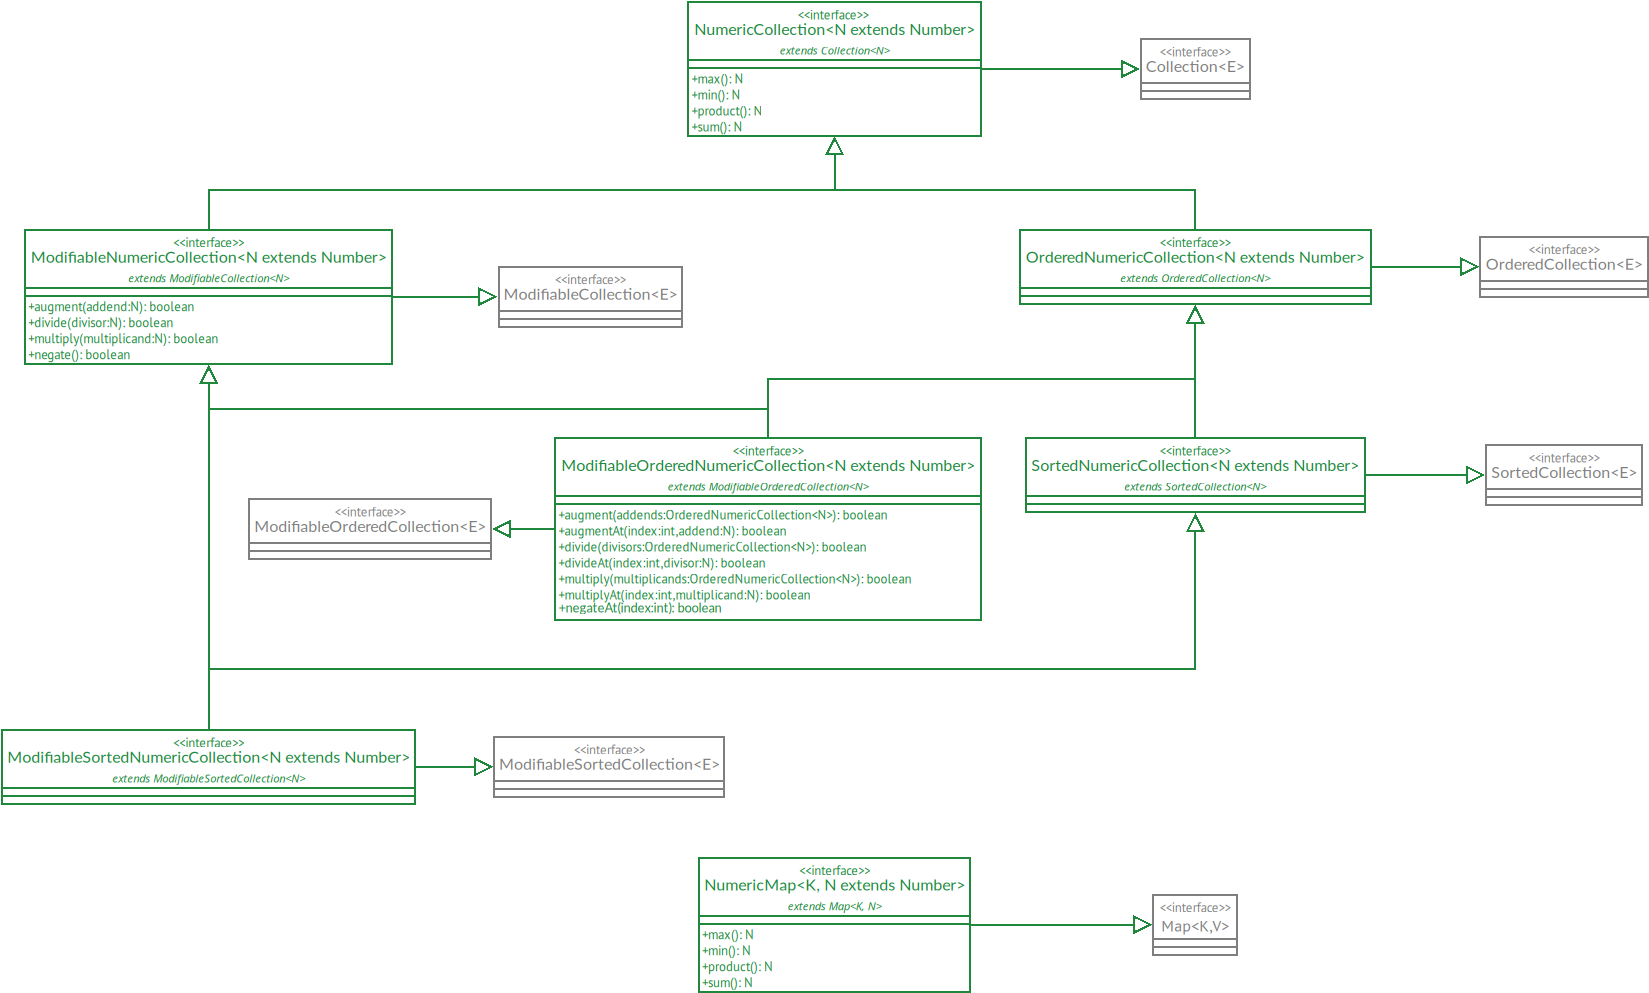
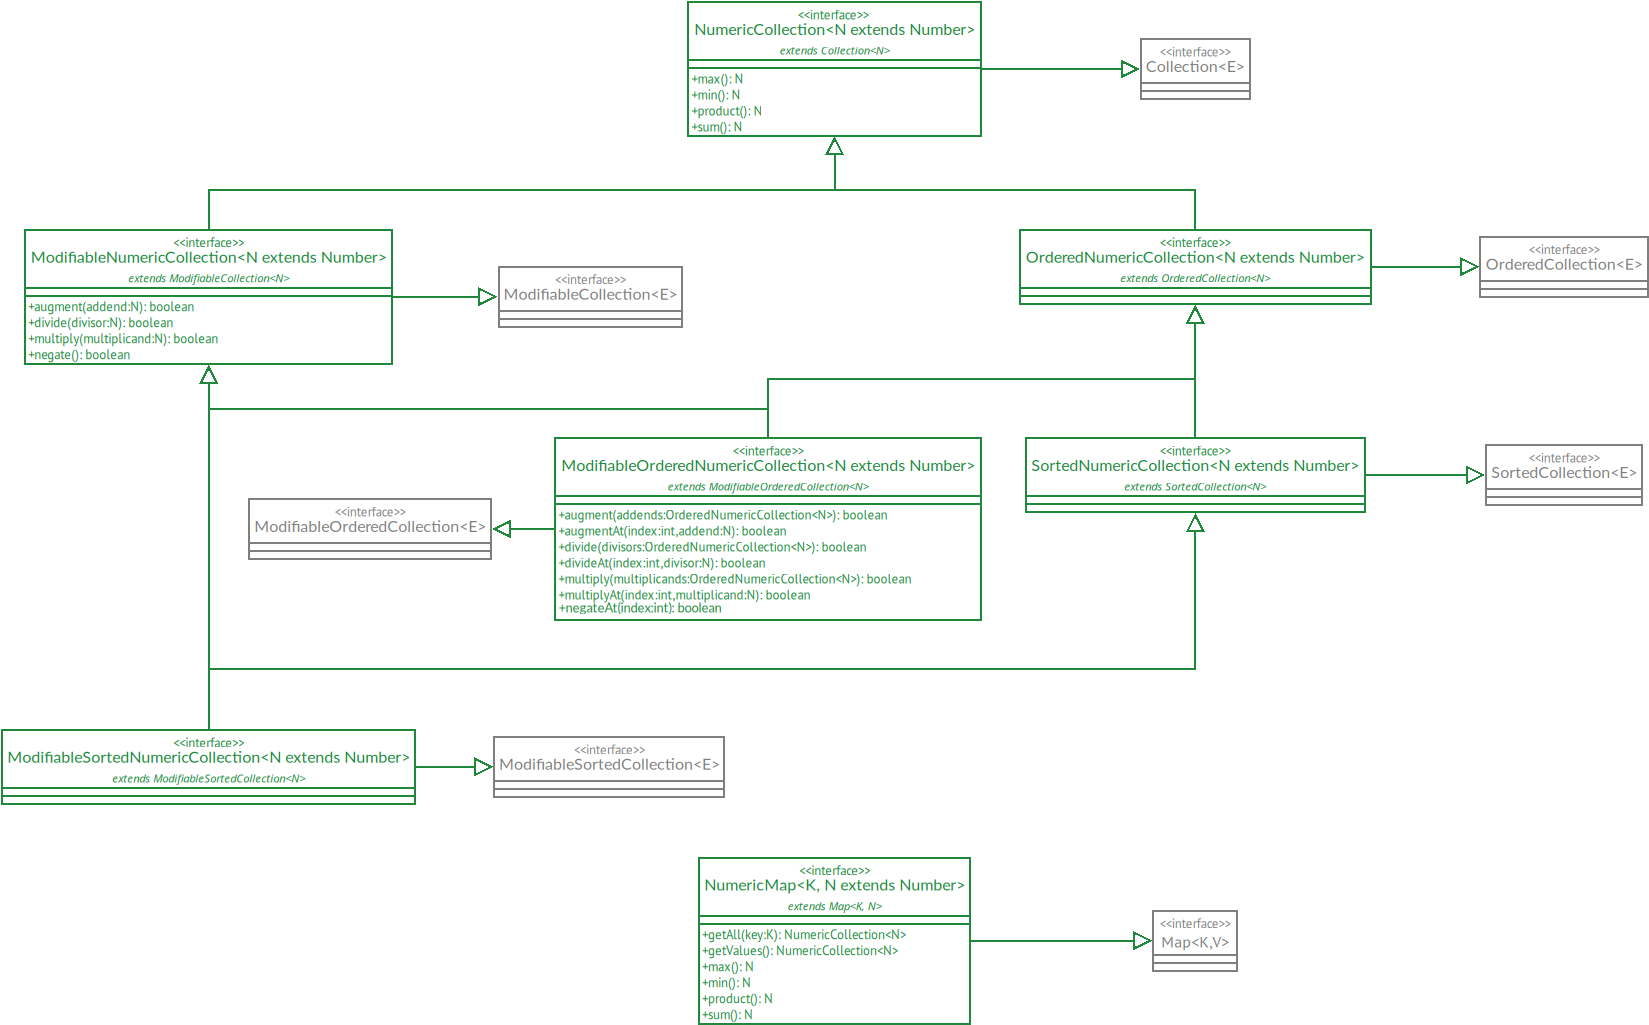
Issue #20: Started the implementation of IntegerMap

diff --git a/src/main/java/net/filipvanlaenen/nombrajkolektoj/integers/IntegerMap.java b/src/main/java/net/filipvanlaenen/nombrajkolektoj/integers/IntegerMap.java
@@ -1,0 +1,130 @@
+package net.filipvanlaenen.nombrajkolektoj.integers;
+
+import java.util.Iterator;
+import java.util.Spliterator;
+
+import net.filipvanlaenen.kolektoj.Collection;
+import net.filipvanlaenen.kolektoj.Map;
+import net.filipvanlaenen.nombrajkolektoj.NumericCollection;
+import net.filipvanlaenen.nombrajkolektoj.NumericMap;
+
+/**
+ * An abstract class implementing the {@link net.filipvanlaenen.nombrajkolektoj.NumericMap} interface for integers and
+ * containing inner classes with concrete implementations.
+ */
+public abstract class IntegerMap<K> extends AbstractIntegerMap<K> implements NumericMap<K, Integer> {
+    public static final class HashMap<K> extends IntegerMap<K> {
+        /**
+         * Constructs a map from another map, with the same keys and integers and the same key and value cardinality.
+         *
+         * @param source The map to create a new map from.
+         */
+        public HashMap(final Map<K, Integer> source) {
+            this(source.getKeyAndValueCardinality(), source.toArray());
+        }
+
+        /**
+         * Constructs a map with the given entries and key and value cardinality.
+         *
+         * @param keyAndValueCardinality The key and value cardinality.
+         * @param entries                The entries of the map.
+         */
+        public HashMap(final KeyAndValueCardinality keyAndValueCardinality, final Entry<K, Integer>... entries) {
+            super(new net.filipvanlaenen.kolektoj.hash.HashMap<K, Integer>(keyAndValueCardinality, entries));
+        }
+
+        /**
+         * Constructs a map with the given entries. The key and value cardinality is defaulted to
+         * <code>DISTINCT_KEYS</code>.
+         *
+         * @param entries The entries of the map.
+         */
+        public HashMap(final Entry<K, Integer>... entries) {
+            super(new net.filipvanlaenen.kolektoj.hash.HashMap<K, Integer>(entries));
+        }
+    }
+
+    /**
+     * The map holding the keys and the integers.
+     */
+    private final Map<K, Integer> map;
+
+    /**
+     * Private constructor taking a map with the keys and the integers as its parameter.
+     *
+     * @param map The map holding the keys and the integers.
+     */
+    private IntegerMap(final Map<K, Integer> map) {
+        this.map = map;
+    }
+
+    @Override
+    public boolean contains(final Entry<K, Integer> entry) {
+        return map.contains(entry);
+    }
+
+    @Override
+    public boolean containsAll(final Collection<?> collection) {
+        return map.containsAll(collection);
+    }
+
+    @Override
+    public boolean containsKey(final K key) {
+        return map.containsKey(key);
+    }
+
+    @Override
+    public boolean containsValue(final Integer value) {
+        return map.containsValue(value);
+    }
+
+    @Override
+    public Entry<K, Integer> get() throws IndexOutOfBoundsException {
+        return map.get();
+    }
+
+    @Override
+    public Integer get(final K key) throws IllegalArgumentException {
+        return map.get(key);
+    }
+
+    @Override
+    public NumericCollection<Integer> getAll(K key) throws IllegalArgumentException {
+        return new IntegerCollection.ArrayCollection(map.getAll(key));
+    }
+
+    @Override
+    public KeyAndValueCardinality getKeyAndValueCardinality() {
+        return map.getKeyAndValueCardinality();
+    }
+
+    @Override
+    public Collection<K> getKeys() {
+        return map.getKeys();
+    }
+
+    @Override
+    public NumericCollection<Integer> getValues() {
+        return new IntegerCollection.ArrayCollection(map.getValues());
+    }
+
+    @Override
+    public Iterator<Entry<K, Integer>> iterator() {
+        return map.iterator();
+    }
+
+    @Override
+    public int size() {
+        return map.size();
+    }
+
+    @Override
+    public Spliterator<Entry<K, Integer>> spliterator() {
+        return map.spliterator();
+    }
+
+    @Override
+    public Entry<K, Integer>[] toArray() {
+        return map.toArray();
+    }
+}

diff --git a/src/main/java/net/filipvanlaenen/nombrajkolektoj/NumericMap.java b/src/main/java/net/filipvanlaenen/nombrajkolektoj/NumericMap.java
@@ -10,6 +10,23 @@ import net.filipvanlaenen.kolektoj.Map;
  */
 public interface NumericMap<K, N extends Number> extends Map<K, N> {
     /**
+     * Returns a numeric collection with all values mapped to the key. Throws an exception if the map doesn't contain
+     * entries with the key.
+     *
+     * @param key The key.
+     * @return A numeric collection with all the values mapped to the key.
+     * @throws IllegalArgumentException Thrown if the map doesn't contain entries with the key.
+     */
+    NumericCollection<N> getAll(K key) throws IllegalArgumentException;
+
+    /**
+     * Returns a numeric collection with all the values present in the map.
+     *
+     * @return A numeric collection with all the values present in the map.
+     */
+    NumericCollection<N> getValues();
+
+    /**
      * Returns the largest number of the map values. Ignores <code>null</code> values, but returns <code>null</code> if
      * the map contains <code>null</code> values only. Throws an exception if the map is empty.
      *

diff --git a/src/main/java/net/filipvanlaenen/nombrajkolektoj/bigdecimals/UpdatableSortedBigDecimalMap.java b/src/main/java/net/filipvanlaenen/nombrajkolektoj/bigdecimals/UpdatableSortedBigDecimalMap.java
@@ -82,8 +82,8 @@ public abstract class UpdatableSortedBigDecimalMap<K> extends AbstractUpdatableS
     }
 
     @Override
-    public Collection<BigDecimal> getAll(K arg0) throws IllegalArgumentException {
-        return bigdecimals.getAll(arg0);
+    public BigDecimalCollection getAll(K arg0) throws IllegalArgumentException {
+        return new BigDecimalCollection.ArrayCollection(bigdecimals.getAll(arg0));
     }
 
     @Override
@@ -97,8 +97,8 @@ public abstract class UpdatableSortedBigDecimalMap<K> extends AbstractUpdatableS
     }
 
     @Override
-    public Collection<BigDecimal> getValues() {
-        return bigdecimals.getValues();
+    public BigDecimalCollection getValues() {
+        return new BigDecimalCollection.ArrayCollection(bigdecimals.getValues());
     }
 
     @Override

diff --git a/src/main/java/net/filipvanlaenen/nombrajkolektoj/integers/AbstractIntegerMap.java b/src/main/java/net/filipvanlaenen/nombrajkolektoj/integers/AbstractIntegerMap.java
@@ -1,0 +1,29 @@
+package net.filipvanlaenen.nombrajkolektoj.integers;
+
+import net.filipvanlaenen.nombrajkolektoj.NumericMap;
+
+/**
+ * An abstract class implementing the methods defined in the {@link net.filipvanlaenen.nombrajkolektoj.NumericMap} for
+ * integers.
+ */
+abstract class AbstractIntegerMap<K> implements NumericMap<K, Integer> {
+    @Override
+    public Integer max() throws IndexOutOfBoundsException {
+        return getValues().max();
+    }
+
+    @Override
+    public Integer min() throws IndexOutOfBoundsException {
+        return getValues().min();
+    }
+
+    @Override
+    public Integer product() {
+        return getValues().product();
+    }
+
+    @Override
+    public Integer sum() {
+        return getValues().sum();
+    }
+}
